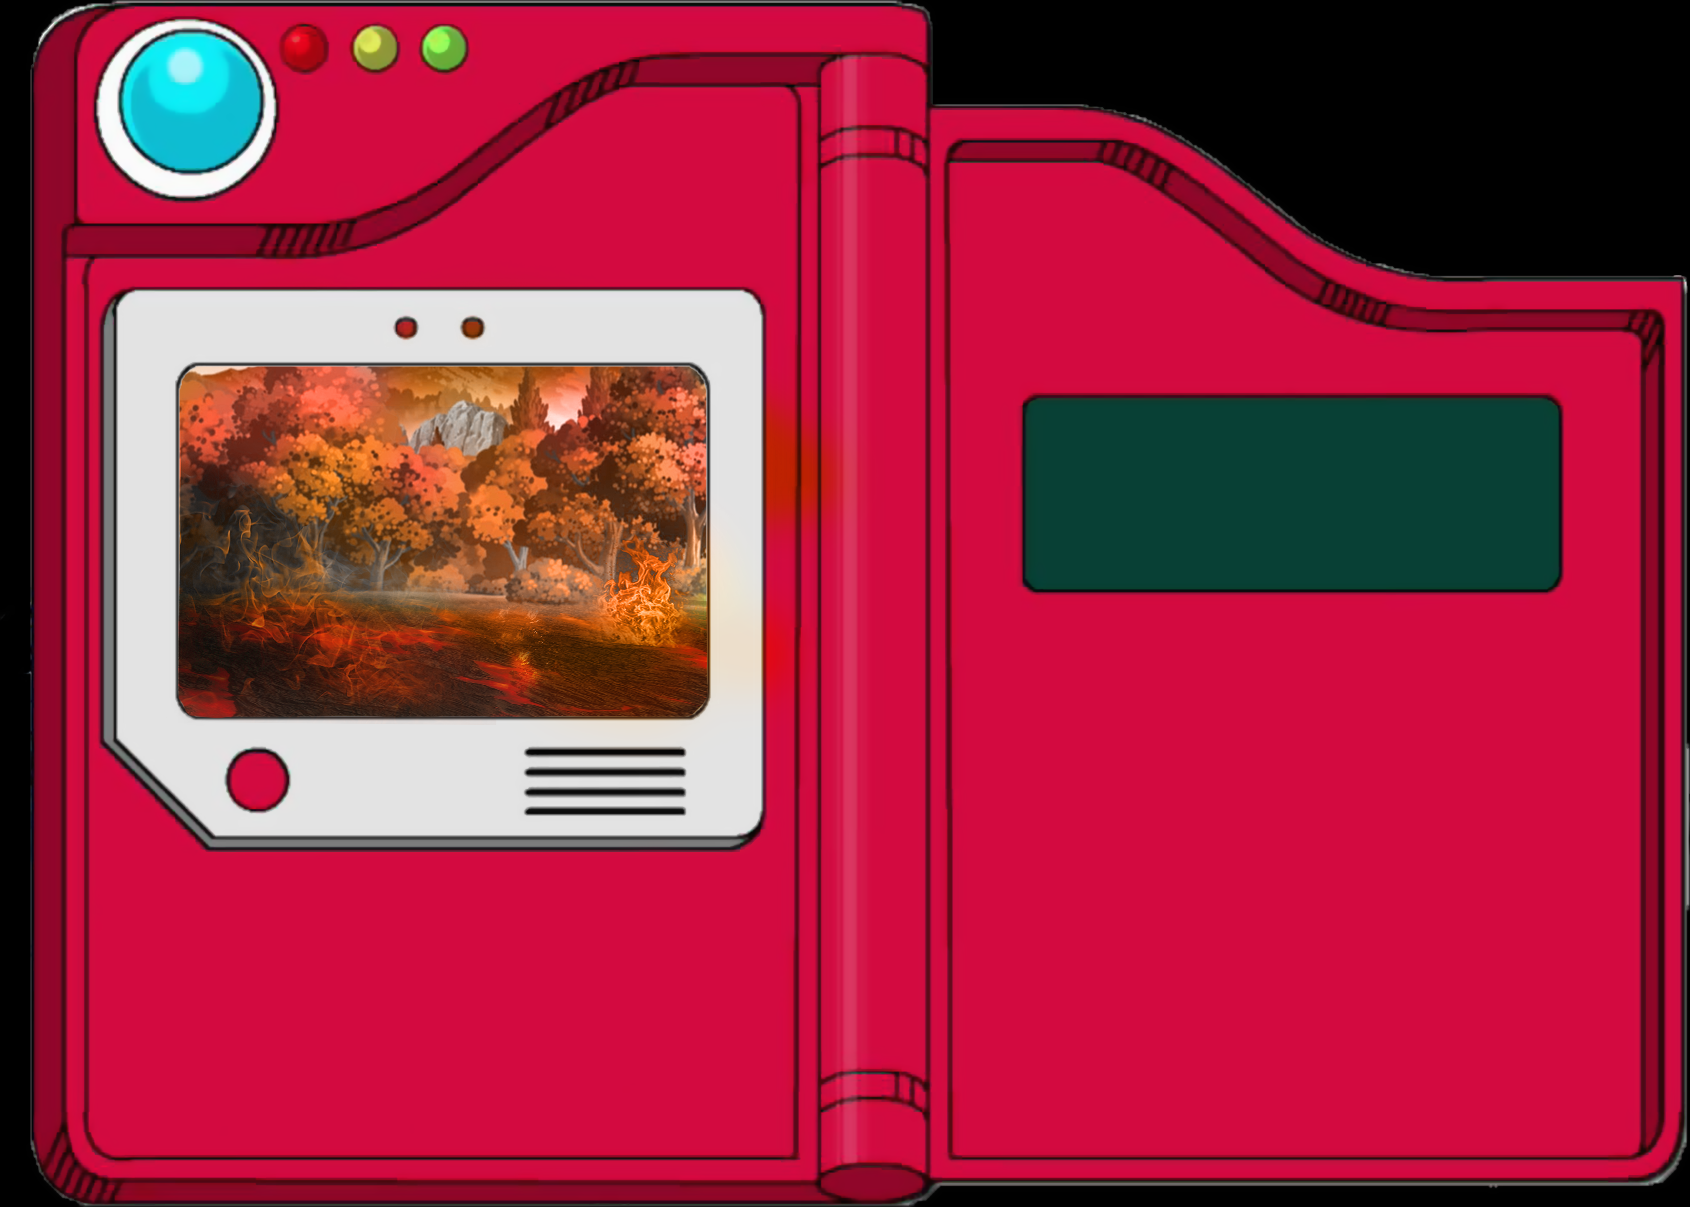
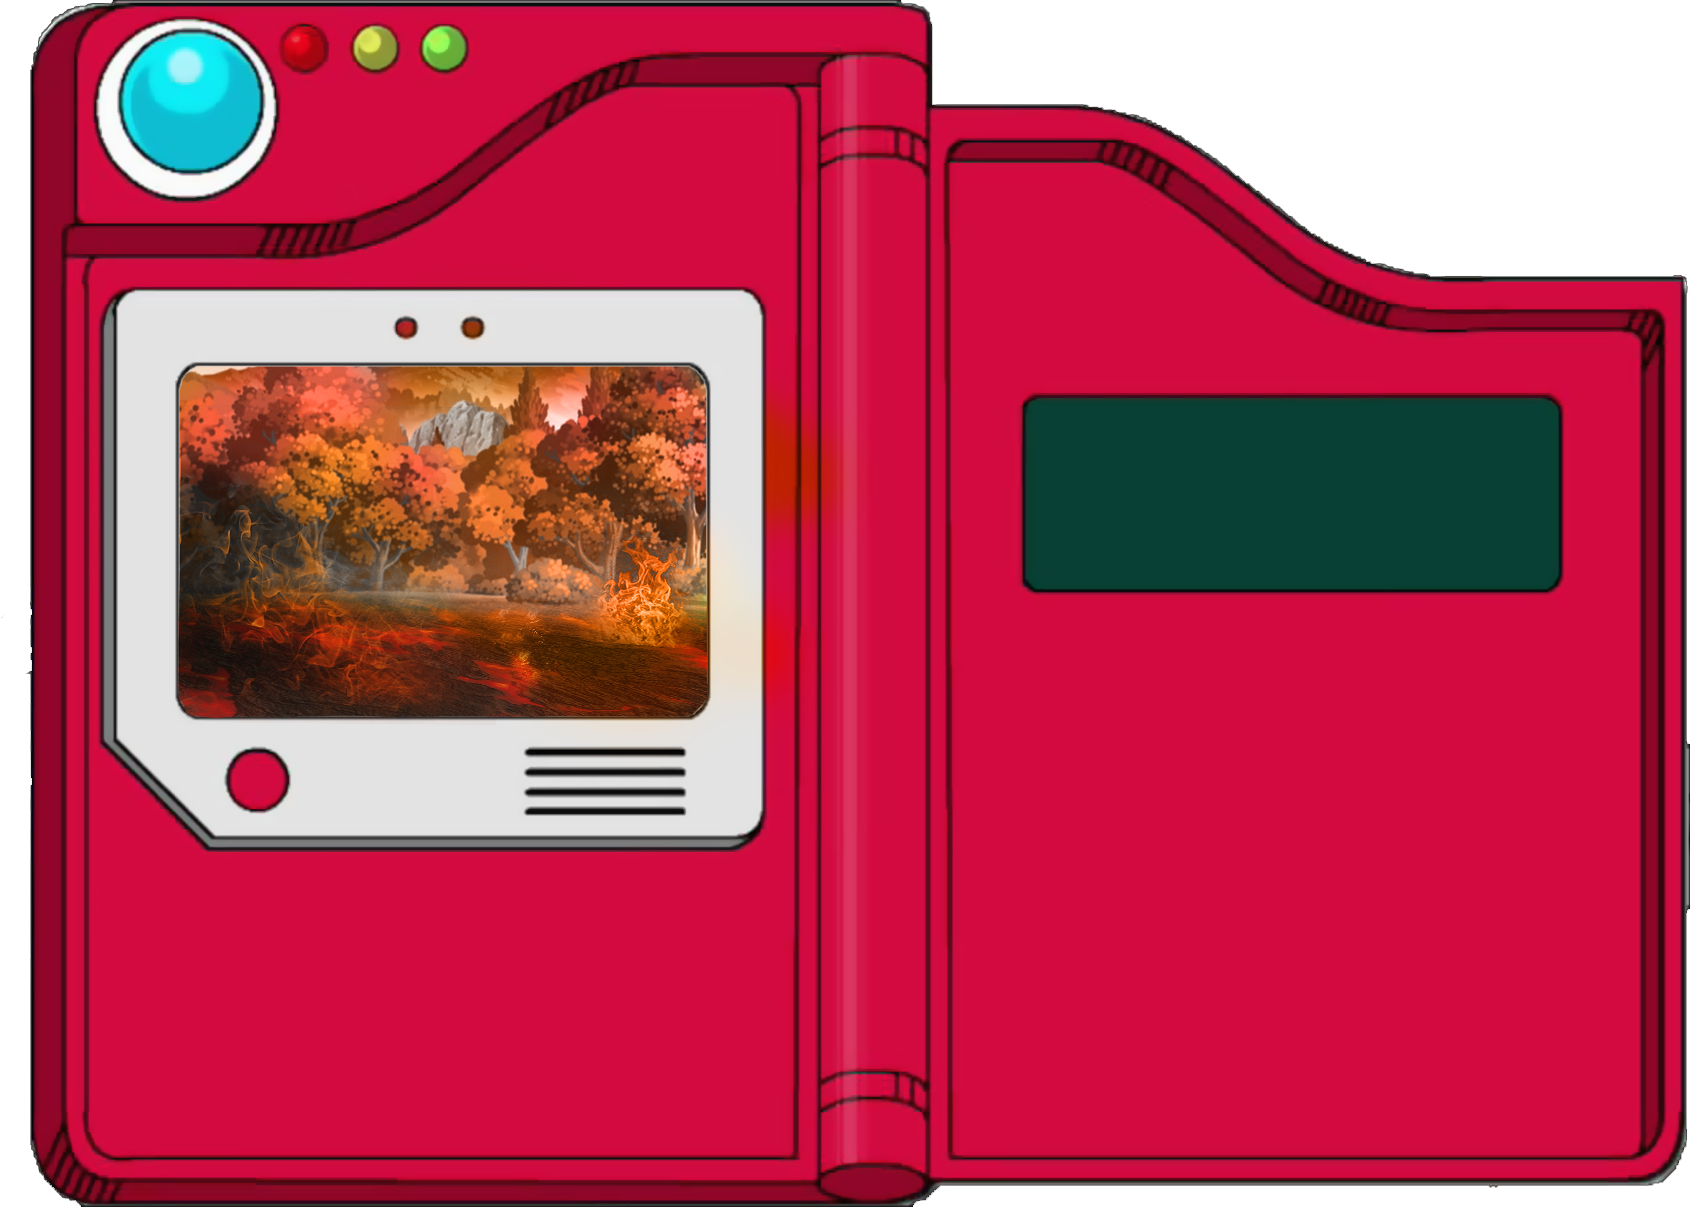
Added new backgrounds for different pokemon types.

Changed region(s): [[0.5231, 0.0, 1.0, 0.6131], [0.0, 0.0, 0.0615, 1.0], [0.5231, 0.7664, 1.0, 1.0]]

diff --git a/js/script.js b/js/script.js
@@ -10,6 +10,7 @@ const listPokedex = document.querySelector('.main_list_pokedex');
 const pokeCards = document.querySelector('.poke_Cards');
 const modal_container = document.querySelector('#modal_container');
 const body = document.querySelector('.body');
+const imgPokedex = document.querySelector('.pokedex');
 
 const form = document.querySelector('.form');
 const formList = document.querySelector('.form-list');
@@ -38,6 +39,7 @@ const fetchPokemon = async (pokemon) => {
 
 //#region get data from the API
 const renderPokemon = async (pokemon) => {
+  imgPokedex.src = './images/Pokedex.png';
   pokemonName.innerHTML = 'Loading...';
   const dados = await fetchPokemon(pokemon);
 
@@ -46,6 +48,36 @@ const renderPokemon = async (pokemon) => {
     let tipoPokemon2;
     if (dados.types.length > 1)
       tipoPokemon2 = dados.types[1].type.name;
+
+    switch (tipoPokemon){
+      case 'fire':
+        imgPokedex.src = './images/Pokedex-Fire.png';
+        break;
+      case 'water':
+        imgPokedex.src = './images/Pokedex-Water.png';
+        break;
+      case 'flying':
+        imgPokedex.src = './images/Pokedex-Flying.png';
+        break;
+      case 'ground':
+        imgPokedex.src = './images/Pokedex-desert.png';
+        break;
+      case 'rock':
+        imgPokedex.src = './images/Pokedex-Cave.png';
+        break;
+      case 'steel':
+        imgPokedex.src = './images/Pokedex-Cave.png';
+        break;        
+      case 'dark':
+        imgPokedex.src = './images/Pokedex-Dark.png';
+        break;
+      case 'ghost':
+        imgPokedex.src = './images/Pokedex-Dark.png';
+        break;
+      case 'ice':
+        imgPokedex.src = './images/Pokedex-Ice.png';
+        break;
+    }
 
     pokemonName.innerHTML = dados.name;
     pokemonId.innerHTML = '#' + dados.id.toString().padStart(3,'0') + ' - ';
@@ -138,16 +170,18 @@ function createCardList(pokemonList) {
 
 async function infoPokemonModal(id) {
   inputList.value = '';
-  modal_container.classList.add('show');
-  body.classList.add('show');
-  buttonBack.classList.add('disabled');
-  const url = `https://pokeapi.co/api/v2/pokemon/${id}`;
-  const data = await fetch(url);
-  const pokemonList = await data.json();
-  //if (pokemonList.id > 649)
-    pokemonImageModal.src = pokemonList['sprites']['other']['home']['front_default'];
-  //else
-  //  pokemonImageModal.src = pokemonList['sprites']['versions']['generation-v']['black-white']['animated']['front_default'];  
+  if (id <= 898){
+    modal_container.classList.add('show');
+    body.classList.add('show');
+    buttonBack.classList.add('disabled');
+    const url = `https://pokeapi.co/api/v2/pokemon/${id.toString().toLowerCase()}`;
+    const data = await fetch(url);
+    const pokemonList = await data.json();
+    //if (pokemonList.id > 649)
+      pokemonImageModal.src = pokemonList['sprites']['other']['home']['front_default'];
+    //else
+    //  pokemonImageModal.src = pokemonList['sprites']['versions']['generation-v']['black-white']['animated']['front_default'];  
+  }
 }
 
 function mainPokedex() {

diff --git a/css/style.css b/css/style.css
@@ -193,7 +193,7 @@ input[type="search"]::-webkit-search-cancel-button {
   margin-top: 0px;
   text-align:initial;
   padding: 10px;
-  min-width: 70vh;
+  min-width: 80vh;
 }
 
 .poke_Cards {
@@ -260,6 +260,13 @@ input[type="search"]::-webkit-search-cancel-button {
 @media (max-width: 800px) {
   .material-icons{
     font-size: clamp(1px, 7vh, 30px) !important;
+  }
+  .btn-backPokedex{
+    width: 6%;
+  }
+  .input_search_list{
+    padding: 3%;
+    font-size: clamp(12px, 5.2vw, 1.5rem);
   }
 }
 

diff --git a/index.html b/index.html
@@ -46,7 +46,7 @@
 
     <button class="btn-list"></button>
 
-    <img src="./images/Pokedex.png" alt="pokedex" class="pokedex">
+    <img src="" alt="pokedex" class="pokedex">
   </main>
 
   <main class="notSelectable main_list_pokedex" style="display: none;">
